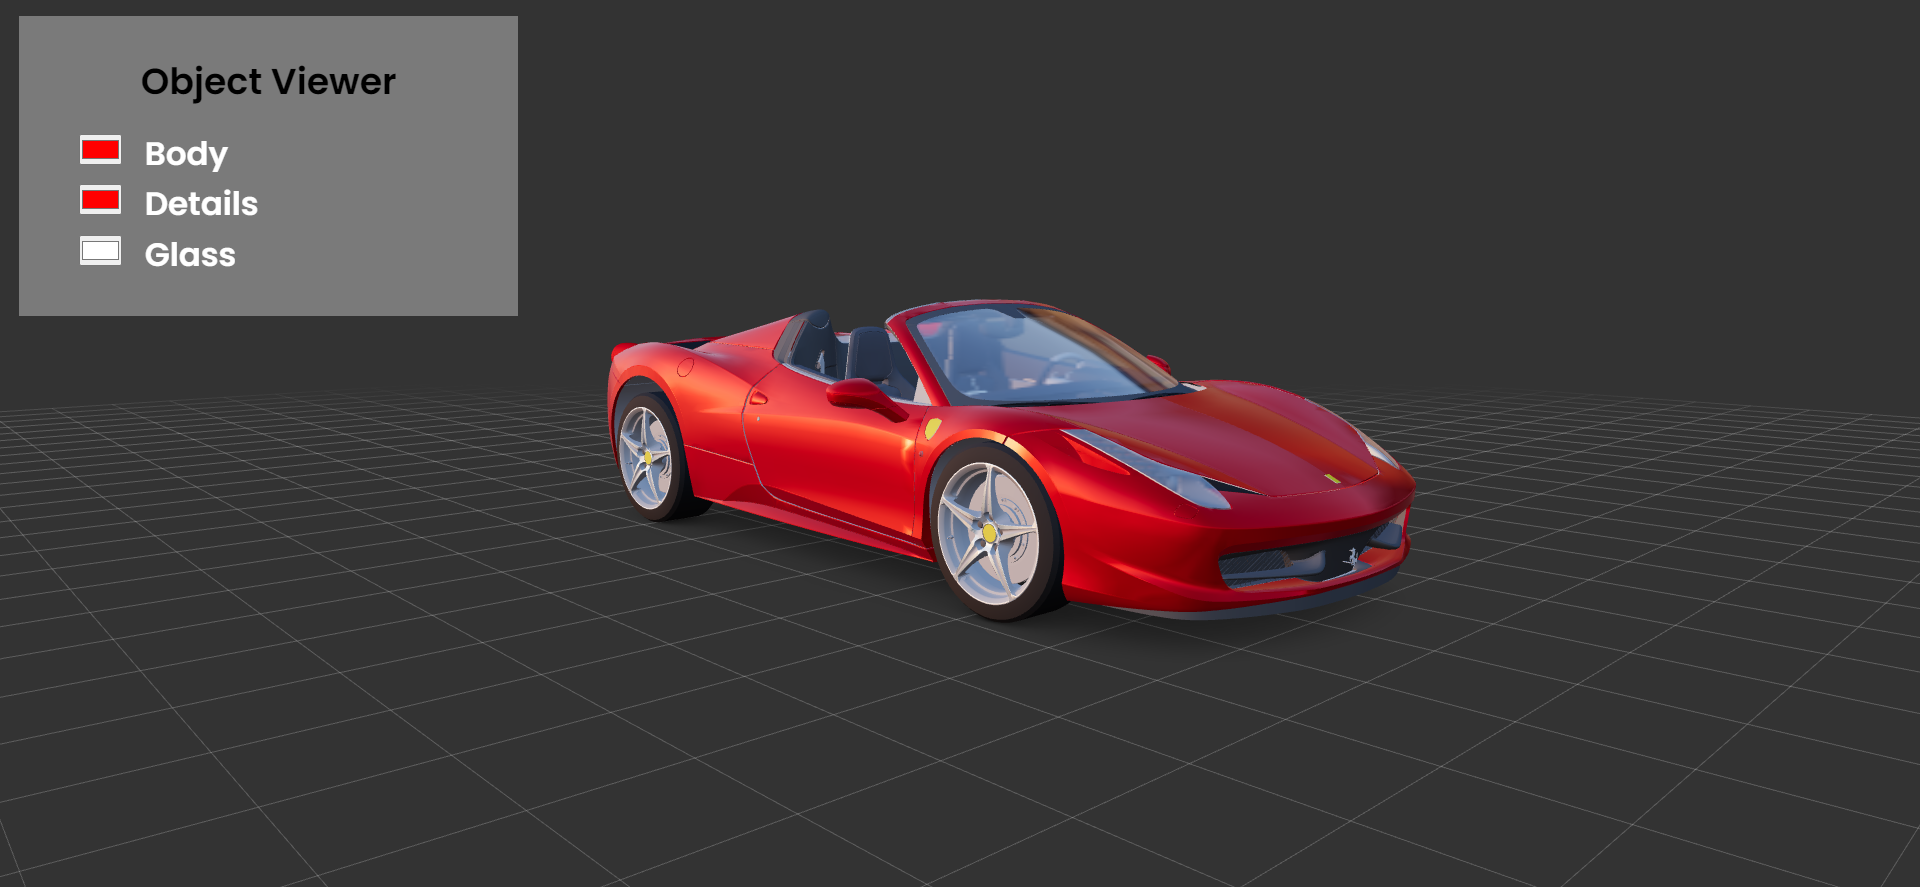
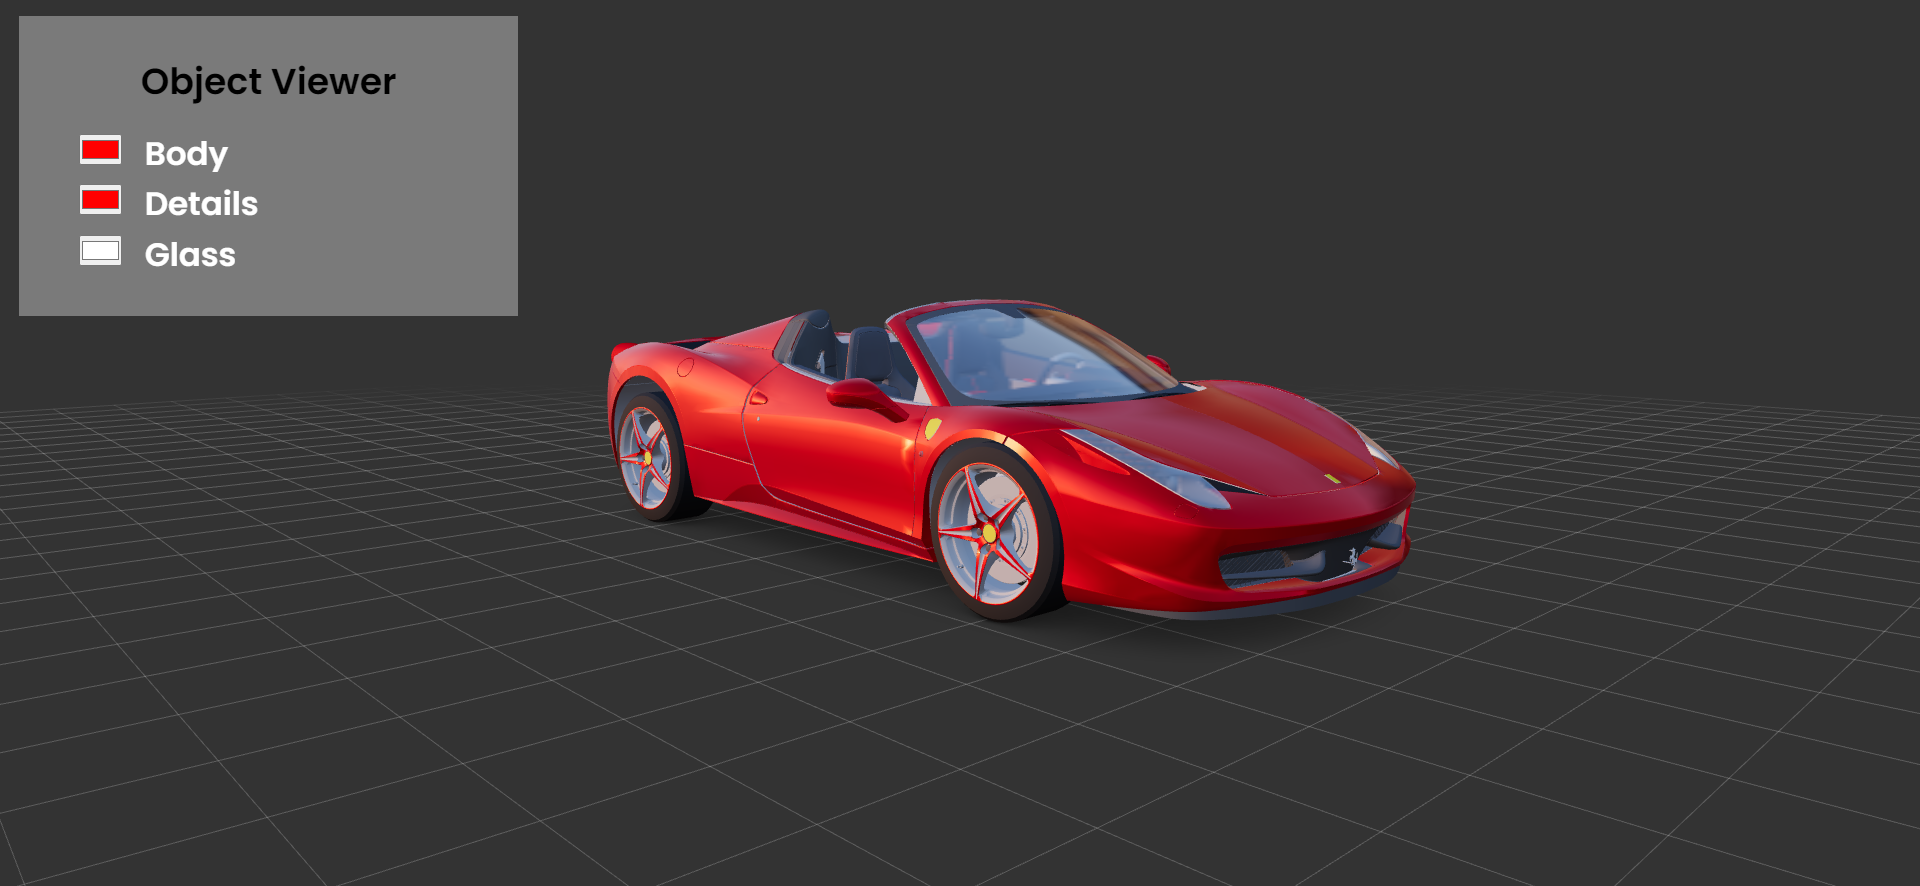
Added ReadMe

diff --git a/18-ObjectViewer/src/Components/MainCanvas.js b/18-ObjectViewer/src/Components/MainCanvas.js
@@ -38,7 +38,9 @@ class CanvasHome extends Component {
 		this.WNDSIZE		=	{ width:0, height: 0};
 
 		this.state	=	{
-
+			bodyColor 	: "#ff0000",
+			detailColor : "#ff0000",
+			glassColor  : "#ffffff"
 		};
 	};
 
@@ -177,7 +179,7 @@ class CanvasHome extends Component {
 		});
 
 		this.detailsMaterial	=	new THREE.MeshStandardMaterial({
-			color	:	0xffffff,
+			color	:	0xff0000,
 			metalness	:	1.0,
 			roughness	:	0.1
 		});
@@ -341,6 +343,9 @@ class CanvasHome extends Component {
 
 		//Code
 		this.bodyMaterial.color.set( event.target.value );
+		this.setState({
+			bodyColor		:	event.target.value
+		});
 	};
 
 	//Handle onIput Details Material
@@ -349,6 +354,9 @@ class CanvasHome extends Component {
 
 		//Code
 		this.detailsMaterial.color.set( event.target.value );
+		this.setState({
+			detailColor	:	event.target.value
+		});
 	};
 
 	//Handle onIput Glass Material
@@ -357,6 +365,9 @@ class CanvasHome extends Component {
 
 		//Code
 		this.glassMaterial.color.set( event.target.value );
+		this.setState({
+			glassColor	:	event.target.value
+		});
 	};
 
 	//Handle onClick Update button
@@ -421,7 +432,7 @@ class CanvasHome extends Component {
 						<input
 							id		=	"body-color"
 							type		=	"color"
-							value	=	"#ff0000"
+							value	=	{this.state.bodyColor}
 							style	=	{
 								{
 									height	:	"25px",
@@ -442,7 +453,7 @@ class CanvasHome extends Component {
 						<input
 							id		=	"details-color"
 							type		=	"color"
-							value	=	"#ff0000"
+							value	=	{this.state.detailColor}
 							style	=	{
 								{
 									height	:	"25px",
@@ -463,7 +474,7 @@ class CanvasHome extends Component {
 						<input
 							id		=	"glass-color"
 							type		=	"color"
-							value	=	"#ffffff"
+							value	=	{this.state.glassColor}
 							style	=	{
 								{
 									height	:	"25px",
